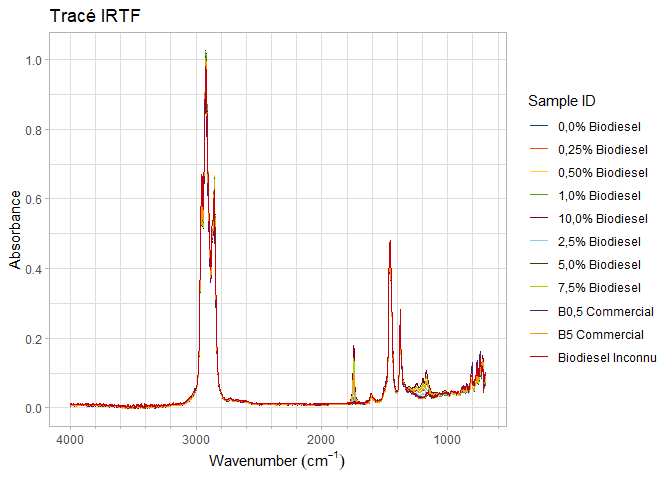
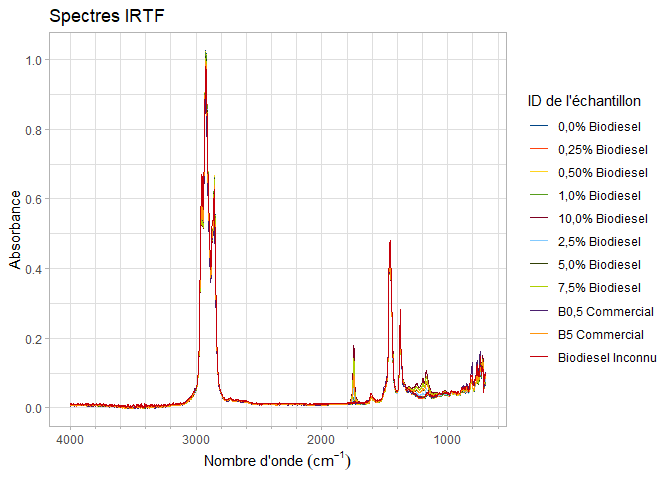
Improved translation, added Ulrich to contributors, add `lang = 'fr'` to make plots french.

Changed region(s): [[0.0625, 0.0, 0.25, 0.0625], [0.2812, 0.9375, 0.5312, 1.0], [0.7812, 0.1875, 0.9688, 0.2188]]

diff --git a/README.md b/README.md
@@ -52,6 +52,10 @@ plot_ftir_stacked(biodiesel)
 
 <img src="man/figures/README-stack_plot_en-1.png" width="100%" />
 
+Note the default plot and legend titles are in english but can be
+automatically changed to french defaults by supplying the `lang = 'fr'`
+argument to plot creation functions.
+
 Plots can be manipulated, for example, by zooming in on a range:
 
 ``` r
@@ -127,7 +131,7 @@ helper function `move_plot_legend()`.
 ## Data Sets
 
 The package contains two datasets to provide example spectra for
-plotting: \* `biodiesel` is a set of diesels with 0 to 10 % FAMES
+plotting: \* `biodiesel` is a set of diesels with 0 to 10 % FAMEs
 (biodiesel) content, plus two known and one unknown diesel spectra. \*
 `sample_spectra` is a set of random FTIR spectra which includes spectra
 of pure toluene, isopropanol, and heptanes, as well as white printer
@@ -149,9 +153,12 @@ head(biodiesel)
 ## Tidy Plot Production
 
 Note that because most functions return a data type similar to what is
-provided, tidy-eval is possible.
+provided, tidy-eval is possible (using the [`magrittr` pipe
+function](https://magrittr.tidyverse.org/reference/pipe) `%>%`).
 
 ``` r
+library(magrittr)
+
 new_ids <- c(
   "toluene" = "Toluene", "heptanes" = "C7 Alkane", "isopropanol" = "IPA",
   "paper" = "White Paper", "polystyrene" = "PS Film"
@@ -237,7 +244,7 @@ prépar de spectres IRTF:
 
 ``` r
 library(PlotFTIR)
-plot_ftir(sample_spectra, plot_title = "Tracé IRTF")
+plot_ftir(sample_spectra, lang = 'fr')
 ```
 
 <img src="man/figures/README-basic_plot_fr-1.png" width="100%" />
@@ -246,17 +253,22 @@ Nous pouvons également tracer les spectres de manière empilée/décalée au
 lieu de les superposer :
 
 ``` r
-plot_ftir_stacked(biodiesel)
+plot_ftir_stacked(biodiesel, plot_title = "Spectre IRTF empilée", lang = 'fr')
 ```
 
 <img src="man/figures/README-stack_plot_fr-1.png" width="100%" />
+
+Notez que les titres par défaut de tracé et du légende sont en anglais,
+mais qu’ils peuvent être automatiquement modifiés en français en
+fournissant l’argument `lang = 'fr'` aux fonctions de création de
+tracés.
 
 Les tracés peuvent être manipulés, par exemple, en zoomant sur une
 plage :
 
 ``` r
 # Générer un tracé
-biodiesel_trace <- plot_ftir(biodiesel, plot_title = "Tracé IRTF")
+biodiesel_trace <- plot_ftir(biodiesel, lang = 'fr')
 # Zoom sur une plage spécifiée de 1850 à 1650 cm^-1
 zoom_in_on_range(biodiesel_trace, c(1650, 1850))
 #> Warning: Removed 18304 rows containing missing values or values outside the scale range
@@ -330,10 +342,14 @@ modifications de base) via une fonction d’assistance
 
 ## Production de tracés “tidy”
 
-Notez que, comme la plupart des fonctions renvoient un type de données
-similaire à celui fourni, une “tidy-eval” est possible.
+Notez que comme la plupart des fonctions renvoient un type de données
+similaire à celui qui est fourni, l’évaluation des données est possible
+(en utilisant [la fonction `magrittr`
+tuyau](https://magrittr.tidyverse.org/reference/pipe) `%>%`).
 
 ``` r
+library(magrittr)
+
 nouveaux_ids <- c(
   "toluene" = "Toluène", "heptanes" = "C7 alcane", "isopropanol" = "alcool isopropylique",
   "paper" = "papier blanc", "polystyrene" = "film de polystyrène"
@@ -341,7 +357,7 @@ nouveaux_ids <- c(
 
 sample_spectra %>%
   absorbance_to_transmittance() %>%
-  plot_ftir(plot_title = "Exemple de spectres IRTF") %>%
+  plot_ftir(plot_title = "Exemple de spectres IRTF", lang = 'fr') %>%
   zoom_in_on_range(zoom_range = c(3800, 800)) %>%
   compress_low_energy(compression_ratio = 4) %>%
   add_wavenumber_marker(
@@ -368,7 +384,7 @@ sample_spectra %>%
 
 Le package contient deux ensembles de données pour fournir des exemples
 de spectres à tracer: \* `biodiesel` est un ensemble de diesels avec une
-teneur en FAMES (biodiesel) de 0 à 10 %, plus deux spectres de diesel
+teneur en EMAGs (biodiesel) de 0 à 10 %, plus deux spectres de diesel
 connus et un inconnu. \* `sample_spectra` est un ensemble de spectres
 IRTF aléatoires qui comprennent des spectres de toluène pur,
 d’isopropanol et d’heptanes, ainsi que du papier d’imprimante blanc et
@@ -389,7 +405,7 @@ head(biodiesel)
 
 ## Manipulation de données
 
-Les données spectrales FTIR peuvent être converties entre l’absorbance
+Les données spectrales IRTF peuvent être converties entre l’absorbance
 et la transmission. Un seul type de données peut exister dans un
 data.frame et être tracé. Les fonctions `absorbance_to_transmittance()`
 et `transmittance_to_absorbance()` effectuent ces conversions.
